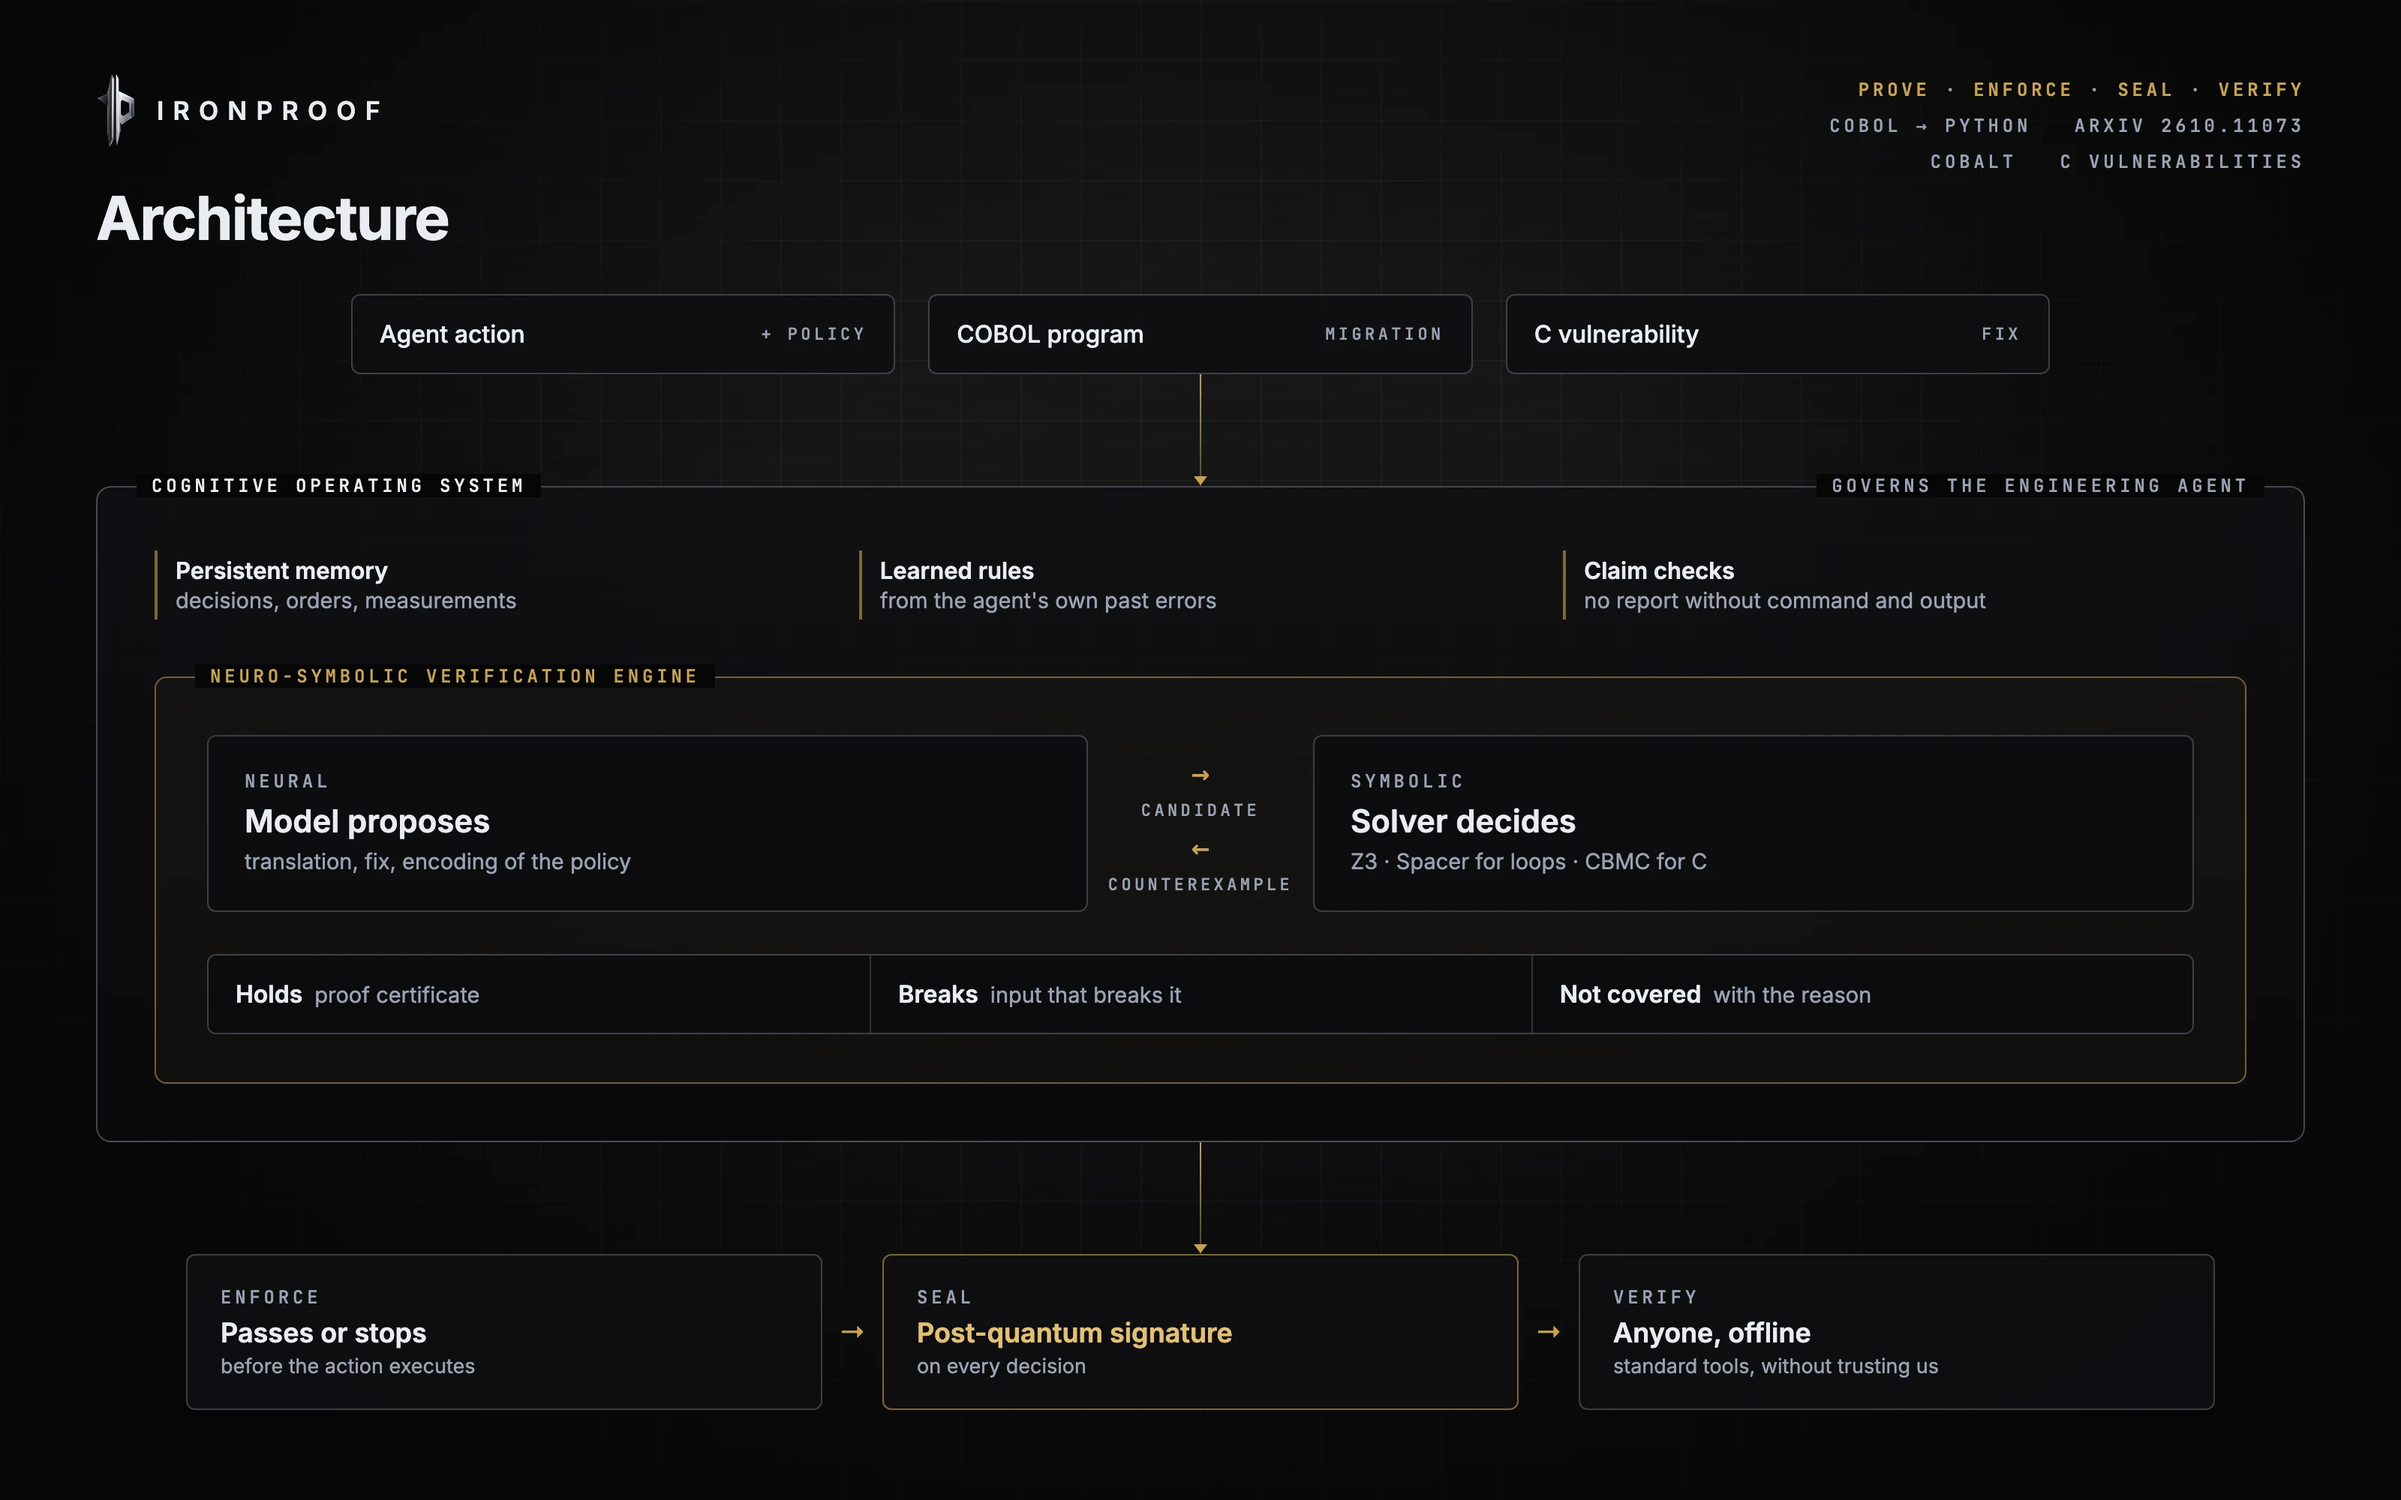
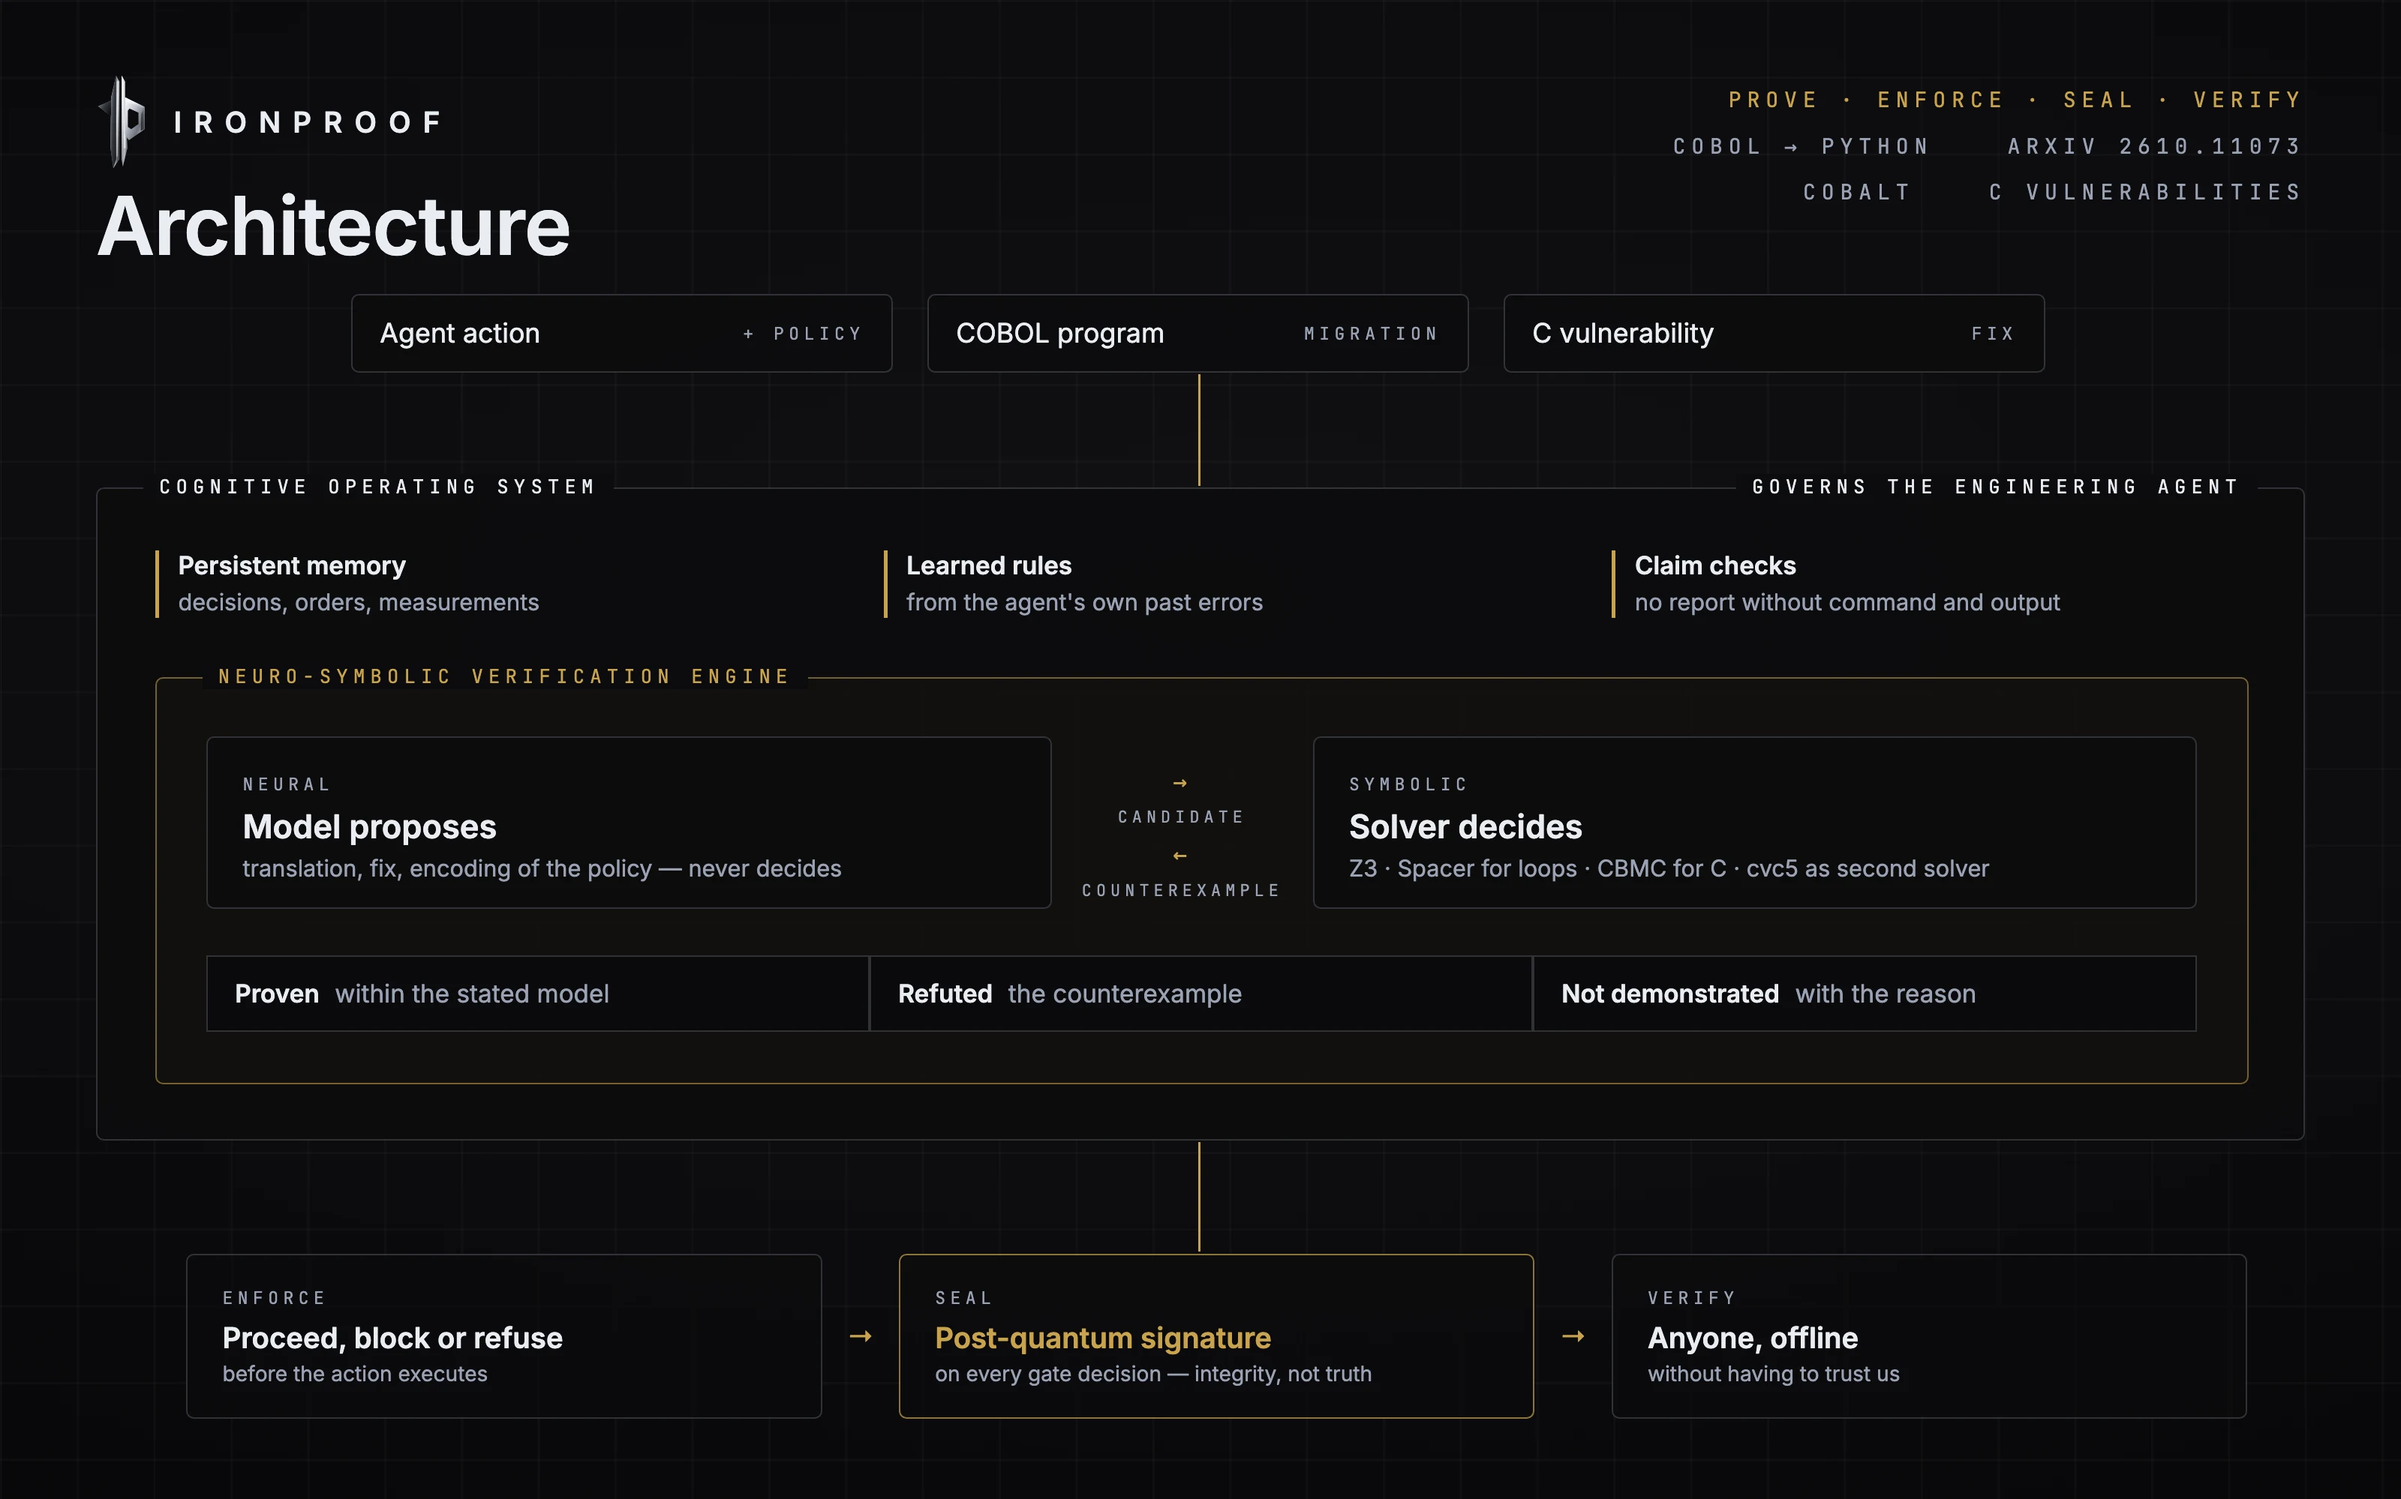
🎯 feat: schema d'architecture refait depuis une source sauvegardee (omg-universe .omg/docs/gen_architecture_site.py) -- Proven/Refuted/Not demonstrated, proceed/block/refuse, sceau = integrite pas verite, cvc5 ; texte alternatif EN+FR aligne (Dom 2026-10-15)

diff --git a/src/components/landing/neuro-symbolic-copy.tsx b/src/components/landing/neuro-symbolic-copy.tsx
@@ -108,7 +108,7 @@ export const NEURO_SYMBOLIC_COPY: L<NeuroSymbolicCopy> = {
     archTag: "ARCHITECTURE",
     archSrc: "/media/architecture-en.webp",
     archAlt:
-      "Ironproof architecture. Three inputs (an agent action with its policy, a COBOL program to migrate, a C vulnerability to fix) enter a cognitive operating system that governs the engineering agent: persistent memory, rules learned from past errors, no report without command and output. Inside it, a neuro-symbolic verification engine: the model proposes, the solver decides, counterexamples flow back. Every result is one of three verdicts, shown in the figure as holds, breaks, not covered: Proven, Refuted, Not demonstrated. Then: enforce before execution, seal every decision with a post-quantum signature, verify offline without having to trust us.",
+      "Ironproof architecture. Three inputs (an agent action with its policy, a COBOL program to migrate, a C vulnerability to fix) enter a cognitive operating system that governs the engineering agent: persistent memory, rules learned from past errors, no report without command and output. Inside it, a neuro-symbolic verification engine: the model proposes, the solver decides, counterexamples flow back. Every result is one of three verdicts: Proven, Refuted, Not demonstrated. Then: proceed, block or refuse before execution; seal every gate decision with a post-quantum signature, which shows integrity, not truth; verify offline without having to trust us.",
     archCaption:
       "The whole system on one page. The model never has the last word: the solver does, and the seal lets anyone check afterward that the record was not changed.",
 
@@ -325,7 +325,7 @@ export const NEURO_SYMBOLIC_COPY: L<NeuroSymbolicCopy> = {
     archTag: "ARCHITECTURE",
     archSrc: "/media/architecture-fr.webp",
     archAlt:
-      "Architecture d’Ironproof. Trois entrées (une action d’agent avec sa politique, un programme COBOL à migrer, une faille C à corriger) entrent dans un système d’exploitation cognitif qui encadre l’agent d’ingénierie : mémoire persistante, règles apprises des erreurs passées, aucun rapport sans commande et sortie. À l’intérieur, un moteur de vérification neuro-symbolique : le modèle propose, le solveur tranche, les contre-exemples reviennent. Chaque résultat est un de trois verdicts, nommés dans la figure tient, tombe, non couvert : Prouvé, Réfuté, Non démontré. Puis : appliquer avant l’exécution, sceller chaque décision par une signature post-quantique, vérifier hors ligne sans nous faire confiance.",
+      "Architecture d’Ironproof. Trois entrées (une action d’agent avec sa politique, un programme COBOL à migrer, une faille C à corriger) entrent dans un système d’exploitation cognitif qui encadre l’agent d’ingénierie : mémoire persistante, règles apprises des erreurs passées, aucun rapport sans commande et sortie. À l’intérieur, un moteur de vérification neuro-symbolique : le modèle propose, le solveur tranche, les contre-exemples reviennent. Chaque résultat est un de trois verdicts : Prouvé, Réfuté, Non démontré. Puis : passer, bloquer ou refuser avant l’exécution ; sceller chaque décision de la barrière par une signature post-quantique, qui montre l’intégrité, pas la vérité ; vérifier hors ligne sans avoir à nous faire confiance.",
     archCaption:
       "Tout le système sur une page. Le modèle n’a jamais le dernier mot : le solveur l’a, et le sceau permet à n’importe qui de vérifier après coup que la trace n’a pas changé.",
 
